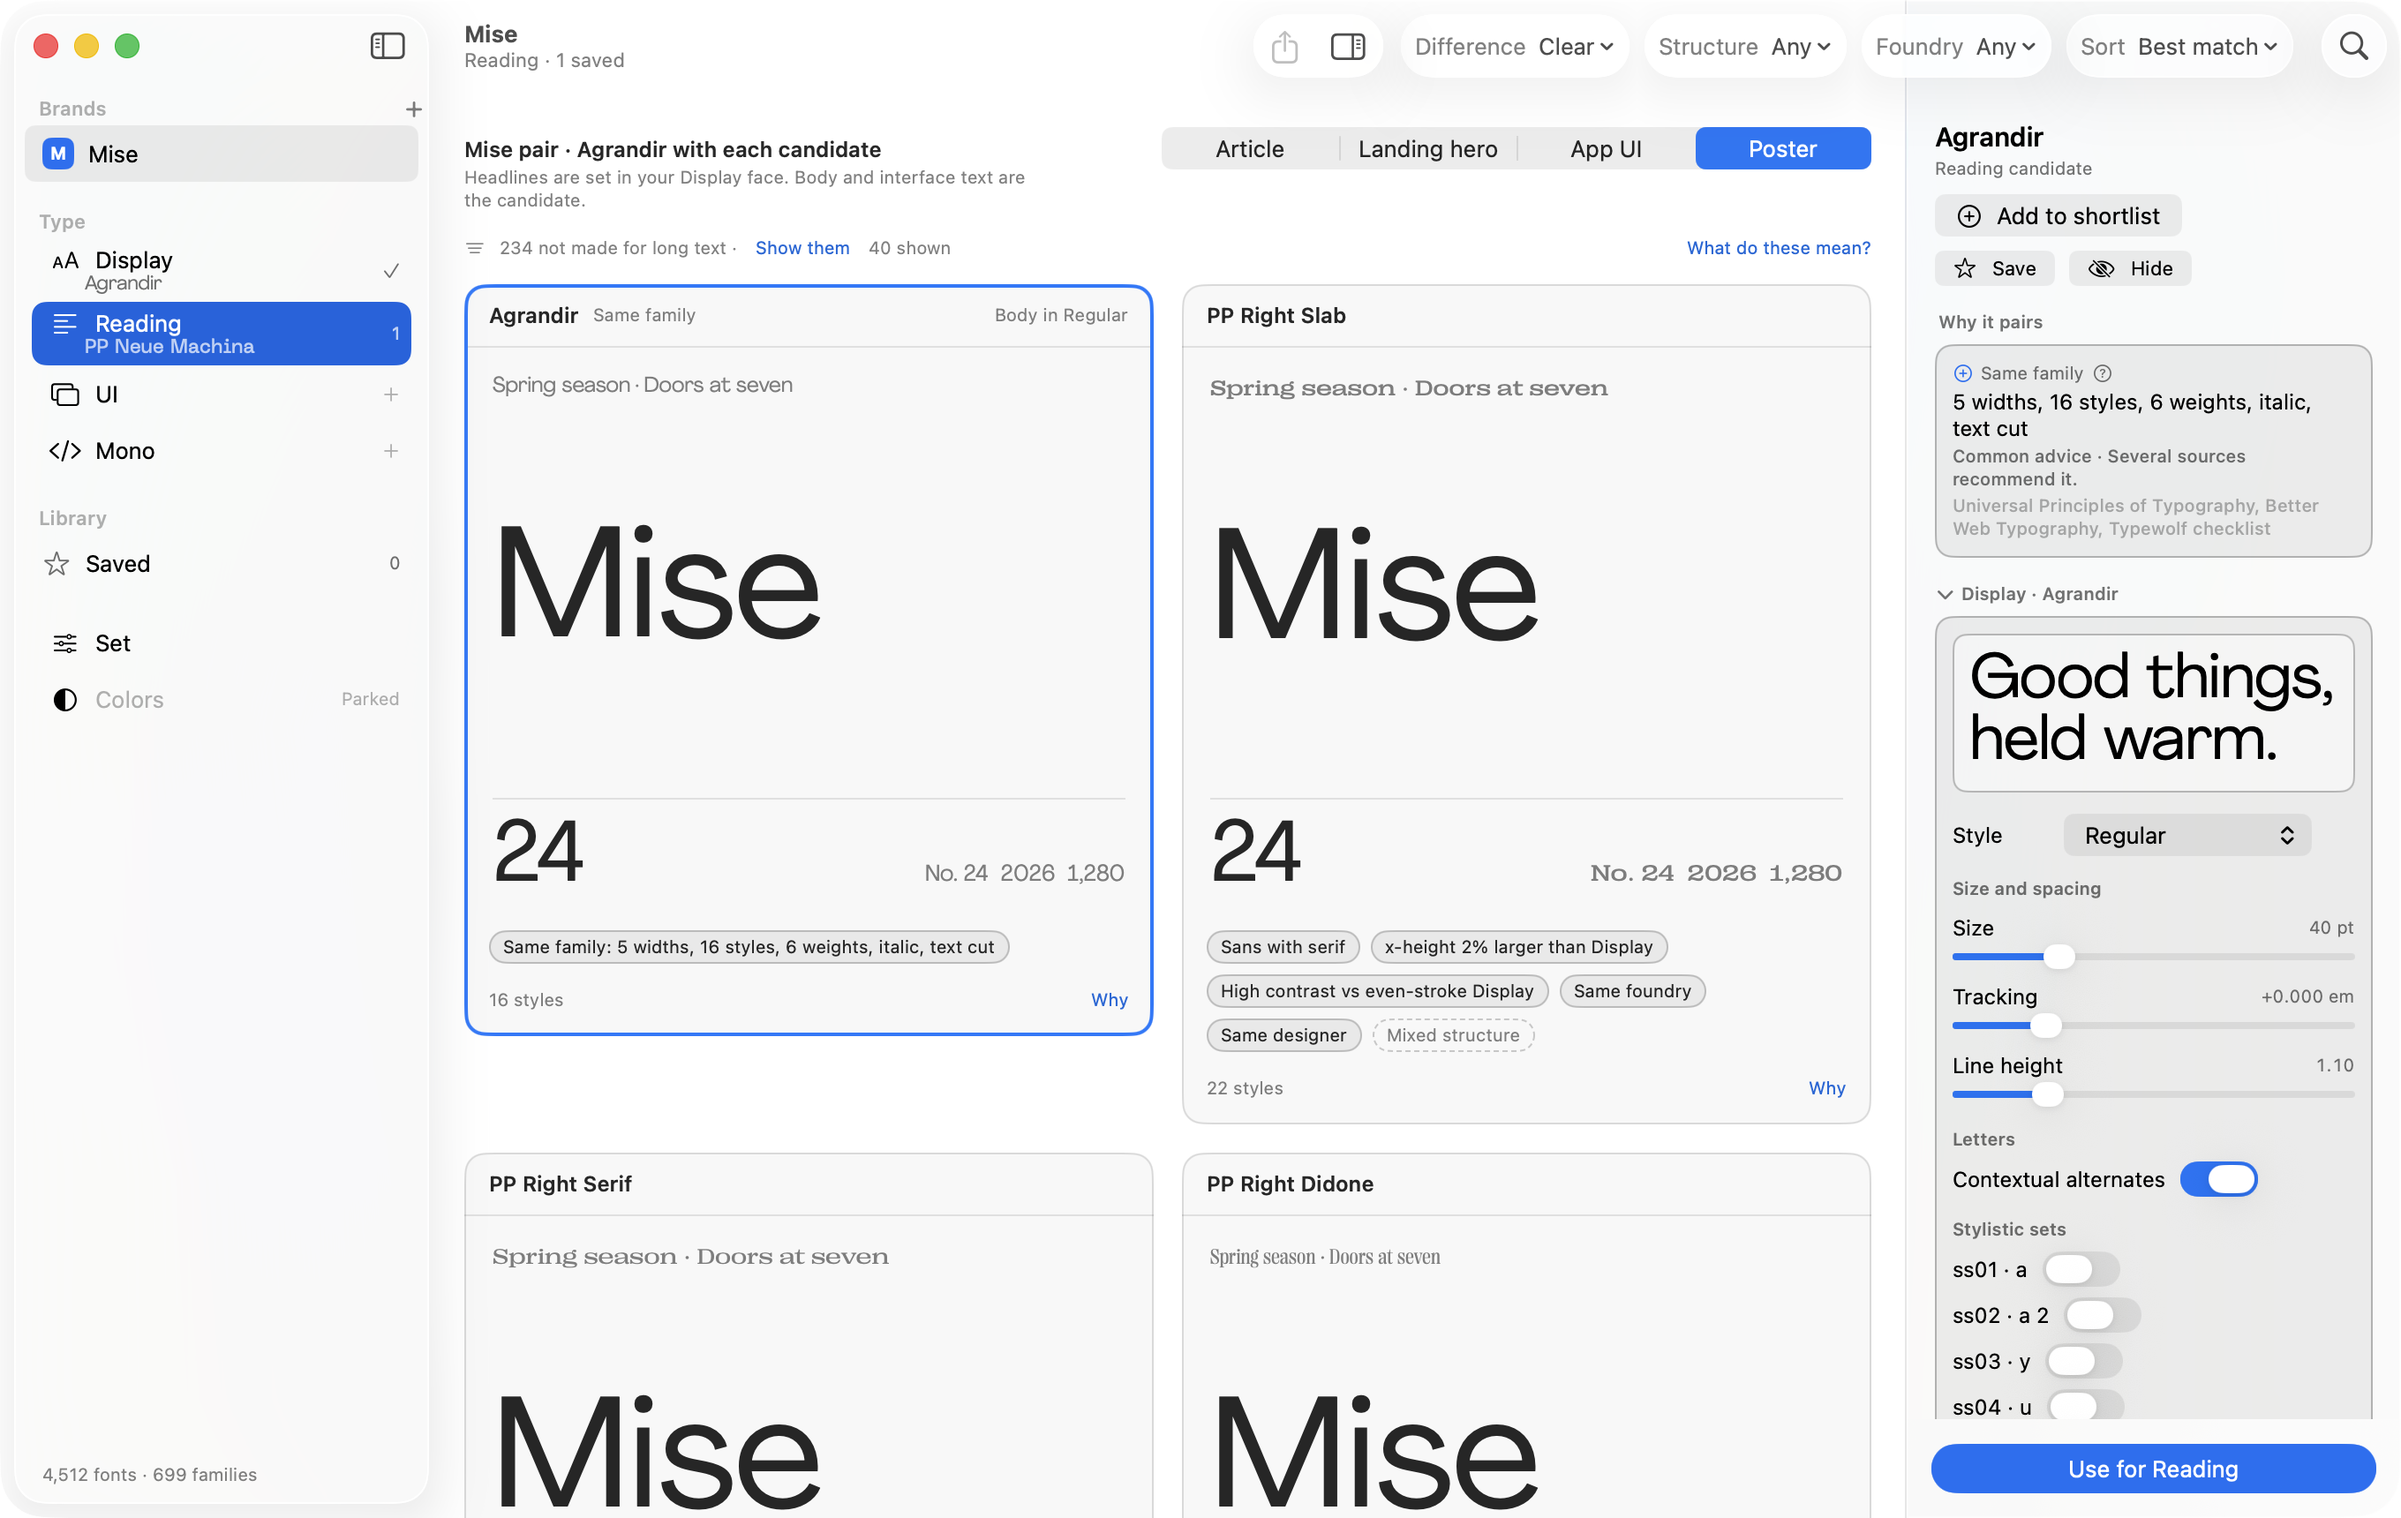
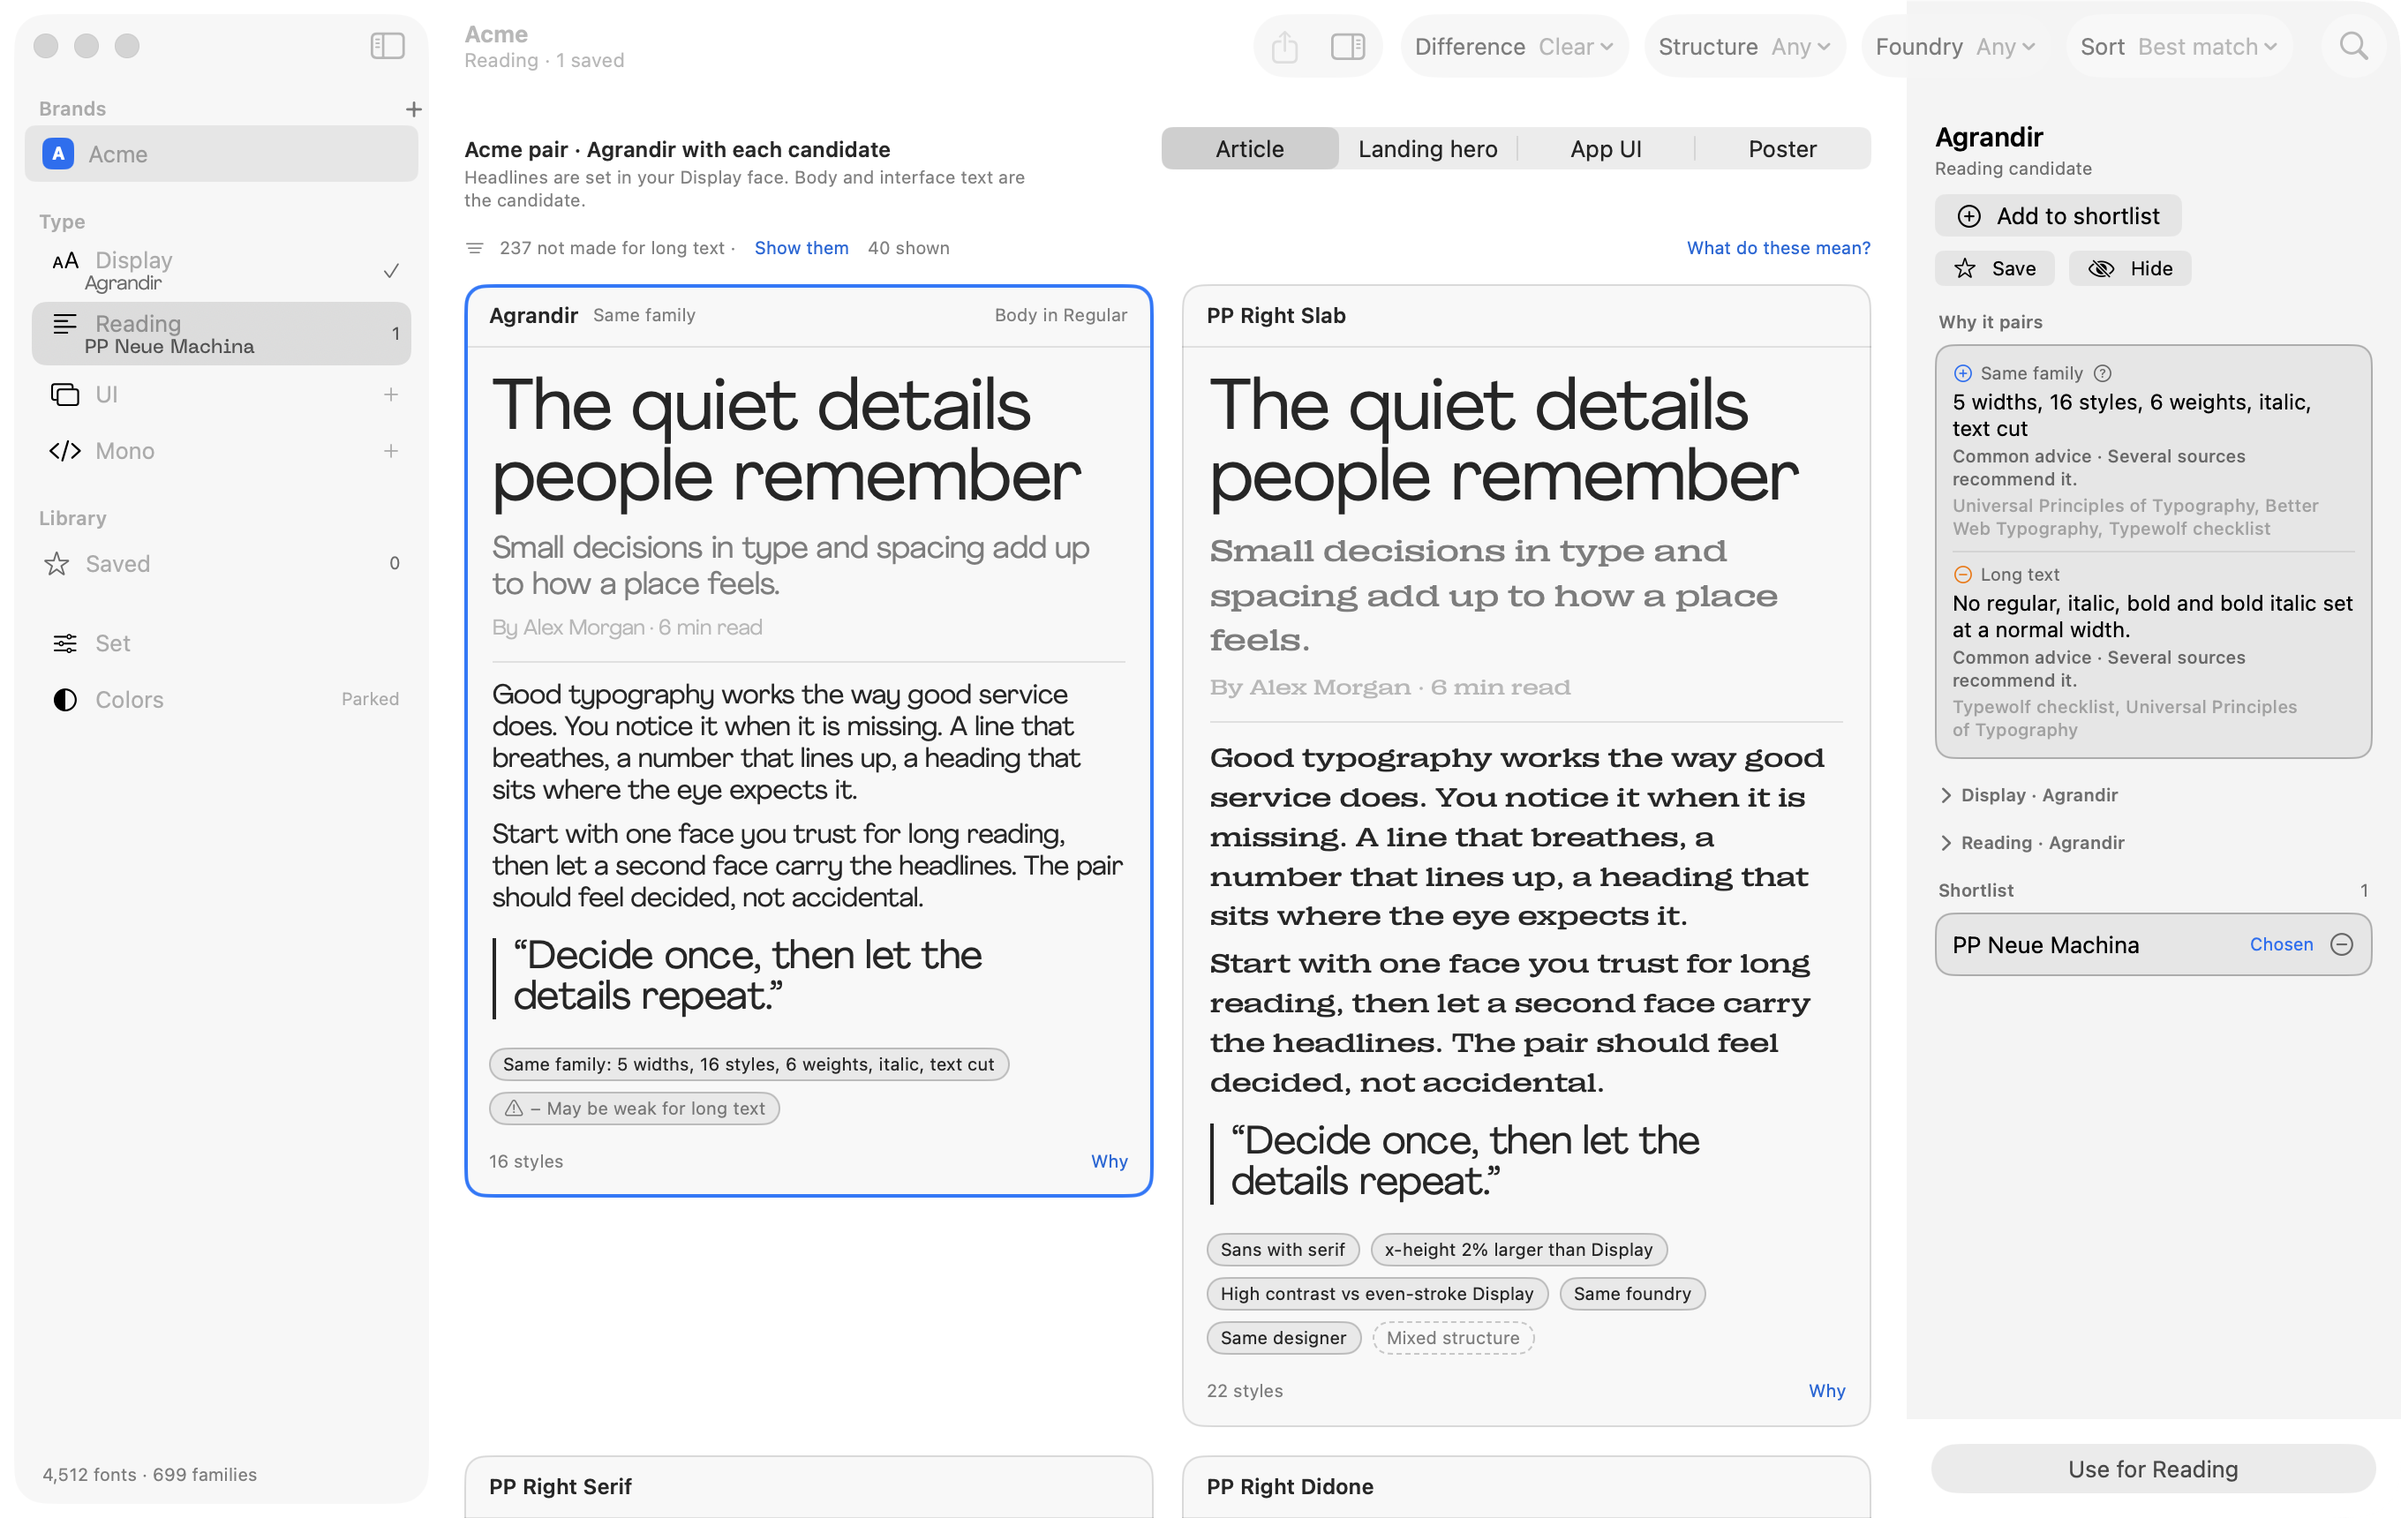
fix(macos): no minus sign on warning chips; demo brand renamed in screenshot

diff --git a/macos/Sources/FontDrop/Components.swift b/macos/Sources/FontDrop/Components.swift
@@ -56,7 +56,7 @@ struct EvidenceChip: View {
     var warning = false      // "too close": an icon plus secondary colour, so it never reads as a plus
 
     private var label: Text {
-        let words = Text((effect < 0 ? "\u{2212} " : "") + text)
+        let words = Text((effect < 0 && !warning ? "\u{2212} " : "") + text)   // the icon already marks a warning
         return warning ? Text(Image(systemName: "exclamationmark.triangle")) + Text(" ") + words : words
     }
 
